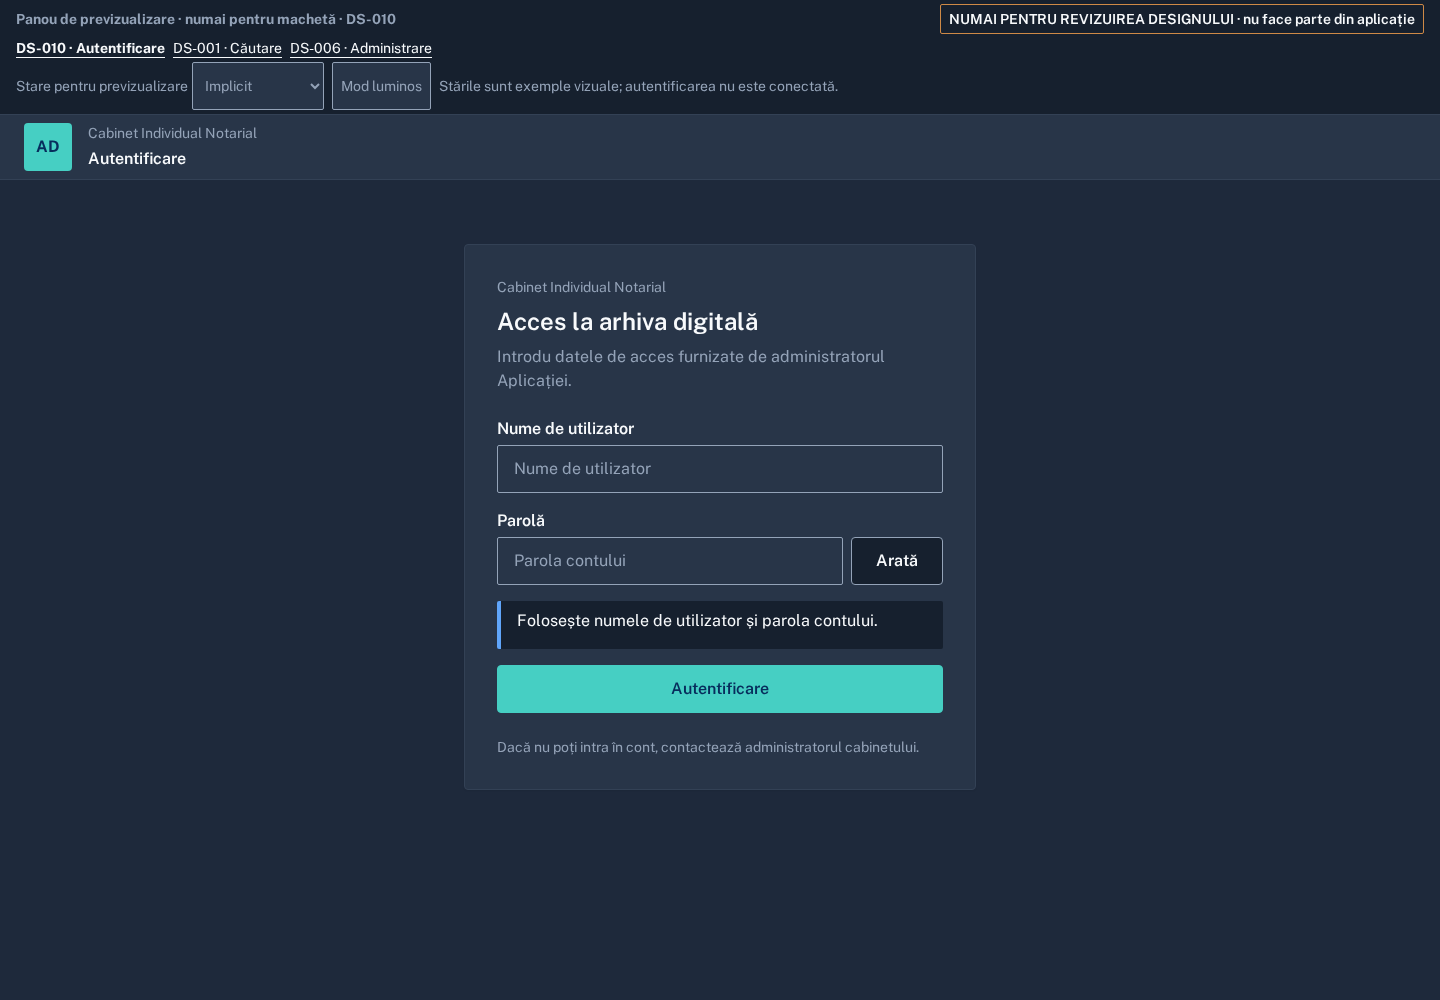
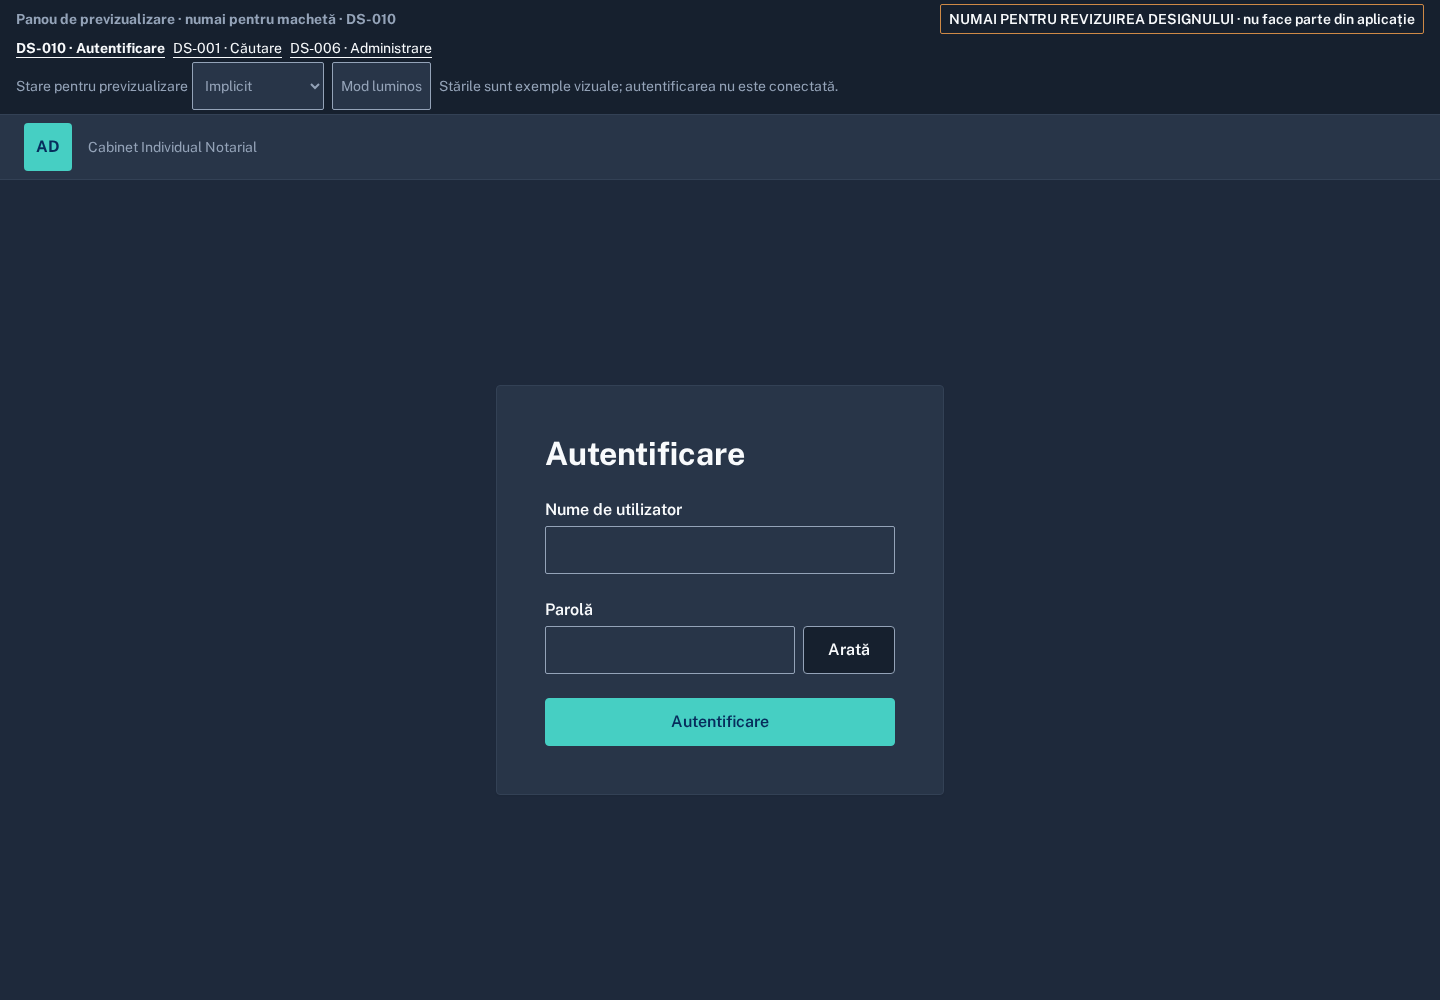
feat(design): simplify DS-010 login mock

Changed region(s): [[0.3438, 0.527, 0.6562, 0.775], [0.3438, 0.279, 0.625, 0.527], [0.0625, 0.124, 0.1875, 0.186]]

diff --git a/docs/design/mocks/DS-010.html b/docs/design/mocks/DS-010.html
@@ -29,7 +29,7 @@
     }
     *, *::before, *::after { box-sizing: border-box; }
     [hidden] { display: none !important; }
-    body { margin: 0; background: var(--color-bg-primary); color: var(--color-text-primary); font: var(--text-body); }
+    body { display: flex; flex-direction: column; min-block-size: 100svh; margin: 0; background: var(--color-bg-primary); color: var(--color-text-primary); font: var(--text-body); }
     h1, h2, h3, p { margin: 0; }
     button, input, select { font: inherit; color: inherit; }
     :focus-visible { outline: var(--radius-sm) solid var(--color-focus-ring); outline-offset: var(--space-xs); }
@@ -45,13 +45,10 @@
     .brand-mark { display: grid; flex: none; place-items: center; inline-size: var(--space-2xl); block-size: var(--space-2xl); border-radius: var(--radius-md); background: var(--color-accent-teal); color: var(--color-version-navy); font-weight: 700; }
     .header-copy { display: grid; gap: var(--space-xs); min-inline-size: 0; }
     .header-kicker { color: var(--color-text-secondary); font: var(--text-small); }
-    .header-title { overflow: hidden; font: var(--text-body); font-weight: 600; text-overflow: ellipsis; white-space: nowrap; }
-    .page { display: grid; justify-items: center; padding: var(--space-3xl) var(--space-md); }
-    .login-card { display: grid; gap: var(--space-lg); inline-size: min(100%, calc(var(--space-3xl) * 8)); padding: var(--space-xl); border: thin solid var(--color-border); border-radius: var(--radius-md); background: var(--color-bg-surface); box-shadow: var(--shadow-card); }
-    .intro { display: grid; gap: var(--space-sm); }
-    .intro h2 { font: var(--text-h2); }
-    .intro p, .hint { color: var(--color-text-secondary); }
-    .form { display: grid; gap: var(--space-md); }
+    .page { display: grid; flex: 1; align-items: center; justify-items: center; min-block-size: 0; padding: var(--space-3xl) var(--space-md); }
+    .login-card { display: grid; gap: var(--space-lg); inline-size: min(100%, calc(var(--space-3xl) * 7)); padding: var(--space-2xl); border: thin solid var(--color-border); border-radius: var(--radius-md); background: var(--color-bg-surface); box-shadow: var(--shadow-card); }
+    .login-card h1 { font: var(--text-h1); }
+    .form { display: grid; gap: var(--space-lg); }
     .field { display: grid; gap: var(--space-xs); }
     .field label { font-weight: 600; }
     .field input { min-block-size: var(--space-2xl); inline-size: 100%; padding: var(--space-sm) var(--space-md); border: thin solid var(--color-text-secondary); border-radius: var(--radius-sm); background: var(--color-bg-surface); }
@@ -65,11 +62,9 @@
     .button.secondary { border-color: var(--color-text-secondary); background: var(--color-bg-subtle); color: var(--color-text-primary); }
     .button.secondary:hover { border-color: var(--color-accent-mid); }
     .submit { inline-size: 100%; }
-    .state-message { min-block-size: var(--space-2xl); padding: var(--space-sm) var(--space-md); border-inline-start: var(--space-xs) solid var(--color-accent-mid); border-radius: var(--radius-sm); background: var(--color-bg-subtle); overflow-wrap: anywhere; }
+    .state-message { padding: var(--space-sm) var(--space-md); border-inline-start: var(--space-xs) solid var(--color-accent-mid); border-radius: var(--radius-sm); background: var(--color-bg-subtle); overflow-wrap: anywhere; }
     main[data-state="error"] .state-message { border-color: var(--color-accent-amber); }
     main[data-state="success"] .state-message { border-color: var(--color-accent-teal); }
-    .hint { font: var(--text-small); }
-    .footer-note { color: var(--color-text-secondary); font: var(--text-small); }
     @media (prefers-reduced-motion: reduce) { *, *::before, *::after { transition: none !important; } }
   </style>
 </head>
@@ -97,33 +92,27 @@
     <div class="brand-mark" aria-hidden="true">AD</div>
     <div class="header-copy">
       <p class="header-kicker">Cabinet Individual Notarial</p>
-      <h1 class="header-title">Autentificare</h1>
     </div>
   </header>
 
   <main class="page" id="login" data-state="default">
     <section class="login-card" aria-labelledby="login-title">
-      <div class="intro">
-        <p class="header-kicker">Cabinet Individual Notarial</p>
-        <h2 id="login-title">Acces la arhiva digitală</h2>
-        <p>Introdu datele de acces furnizate de administratorul Aplicației.</p>
-      </div>
+      <h1 id="login-title">Autentificare</h1>
       <form class="form" id="login-form">
         <div class="field">
           <label for="username">Nume de utilizator</label>
-          <input id="username" name="username" type="text" autocomplete="username" placeholder="Nume de utilizator">
+          <input id="username" name="username" type="text" autocomplete="username">
         </div>
         <div class="field">
           <label for="password">Parolă</label>
           <div class="password-row">
-            <input id="password" name="password" type="password" autocomplete="current-password" placeholder="Parola contului">
+            <input id="password" name="password" type="password" autocomplete="current-password">
             <button class="button secondary" id="show-password" type="button" aria-label="Arată parola">Arată</button>
           </div>
         </div>
-        <p class="state-message" id="state-message" role="status" aria-live="polite">Folosește numele de utilizator și parola contului.</p>
+        <p class="state-message" id="state-message" role="status" aria-live="polite" hidden></p>
         <button class="button submit" id="submit-login" type="submit">Autentificare</button>
       </form>
-      <p class="footer-note">Dacă nu poți intra în cont, contactează administratorul cabinetului.</p>
     </section>
   </main>
   <script>
@@ -143,6 +132,7 @@
     function setState(state) {
       main.dataset.state = state;
       stateMessage.textContent = messages[state];
+      stateMessage.hidden = state === 'default';
       submit.disabled = state === 'loading' || state === 'disabled';
       main.setAttribute('aria-busy', state === 'loading' ? 'true' : 'false');
       document.querySelectorAll('#login-form input').forEach(input => { input.disabled = ['loading', 'disabled'].includes(state); });
@@ -165,6 +155,7 @@
     document.getElementById('login-form').addEventListener('submit', event => {
       event.preventDefault();
       stateMessage.textContent = 'Autentificarea nu este conectată; aceasta este doar o previzualizare.';
+      stateMessage.hidden = false;
     });
   </script>
 </body>
